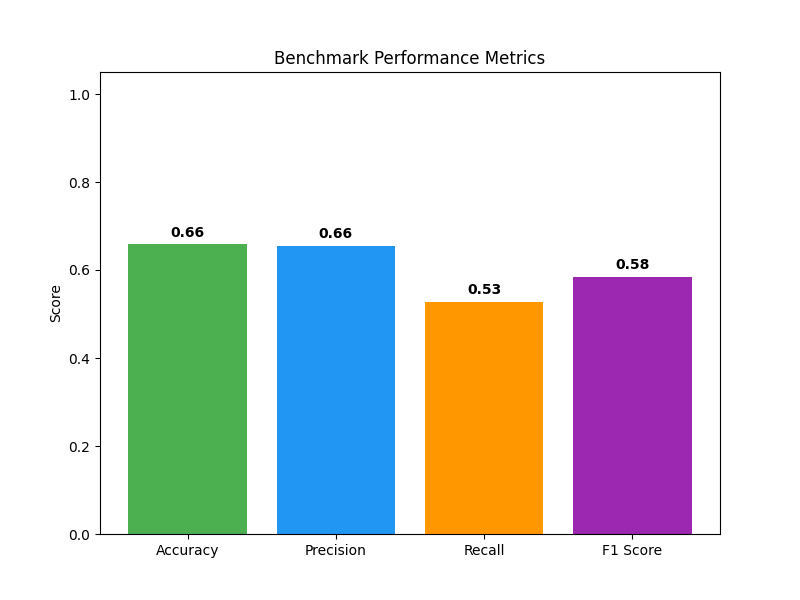
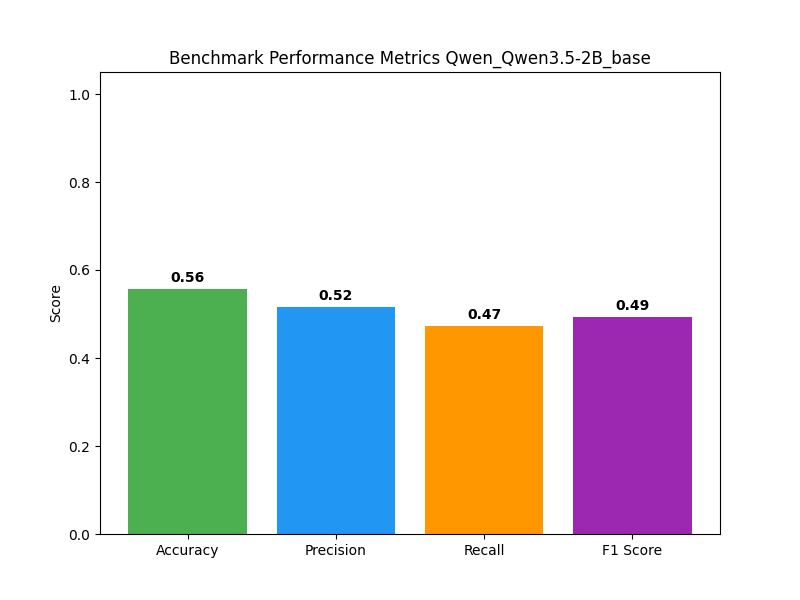
fixed plotting

diff --git a/benchmark.py b/benchmark.py
@@ -188,6 +188,8 @@ def run_benchmark(data, model_path, adapter=None, limit=None, quantize=False):
         try:
             import matplotlib.pyplot as plt
             import os
+            model_name = model_path.replace("/", "_")
+            adapter_suffix = "_with_adapter" if (args.adapter and args.adapter.strip()) else "_base"
             
             metrics = ['Accuracy', 'Precision', 'Recall', 'F1 Score']
             values = [accuracy / 100, precision, recall, f1_score]
@@ -197,15 +199,14 @@ def run_benchmark(data, model_path, adapter=None, limit=None, quantize=False):
             
             plt.ylim(0, 1.05)
             plt.ylabel('Score')
-            plt.title('Benchmark Performance Metrics')
+            plt.title(f'Benchmark Performance Metrics for {model_name}{adapter_suffix}')
             
             for bar in bars:
                 yval = bar.get_height()
                 plt.text(bar.get_x() + bar.get_width()/2, yval + 0.01, f"{yval:.2f}", 
                          ha='center', va='bottom', fontsize=10, fontweight='bold')
                 
-            model_name = model_path.replace("/", "_")
-            adapter_suffix = "_with_adapter" if (args.adapter and args.adapter.strip()) else "_base"
+            
             plot_path = os.path.join(os.getcwd(), f'{model_name}{adapter_suffix}_benchmark_metrics.png')
             plt.savefig(plot_path)
             plt.close()
